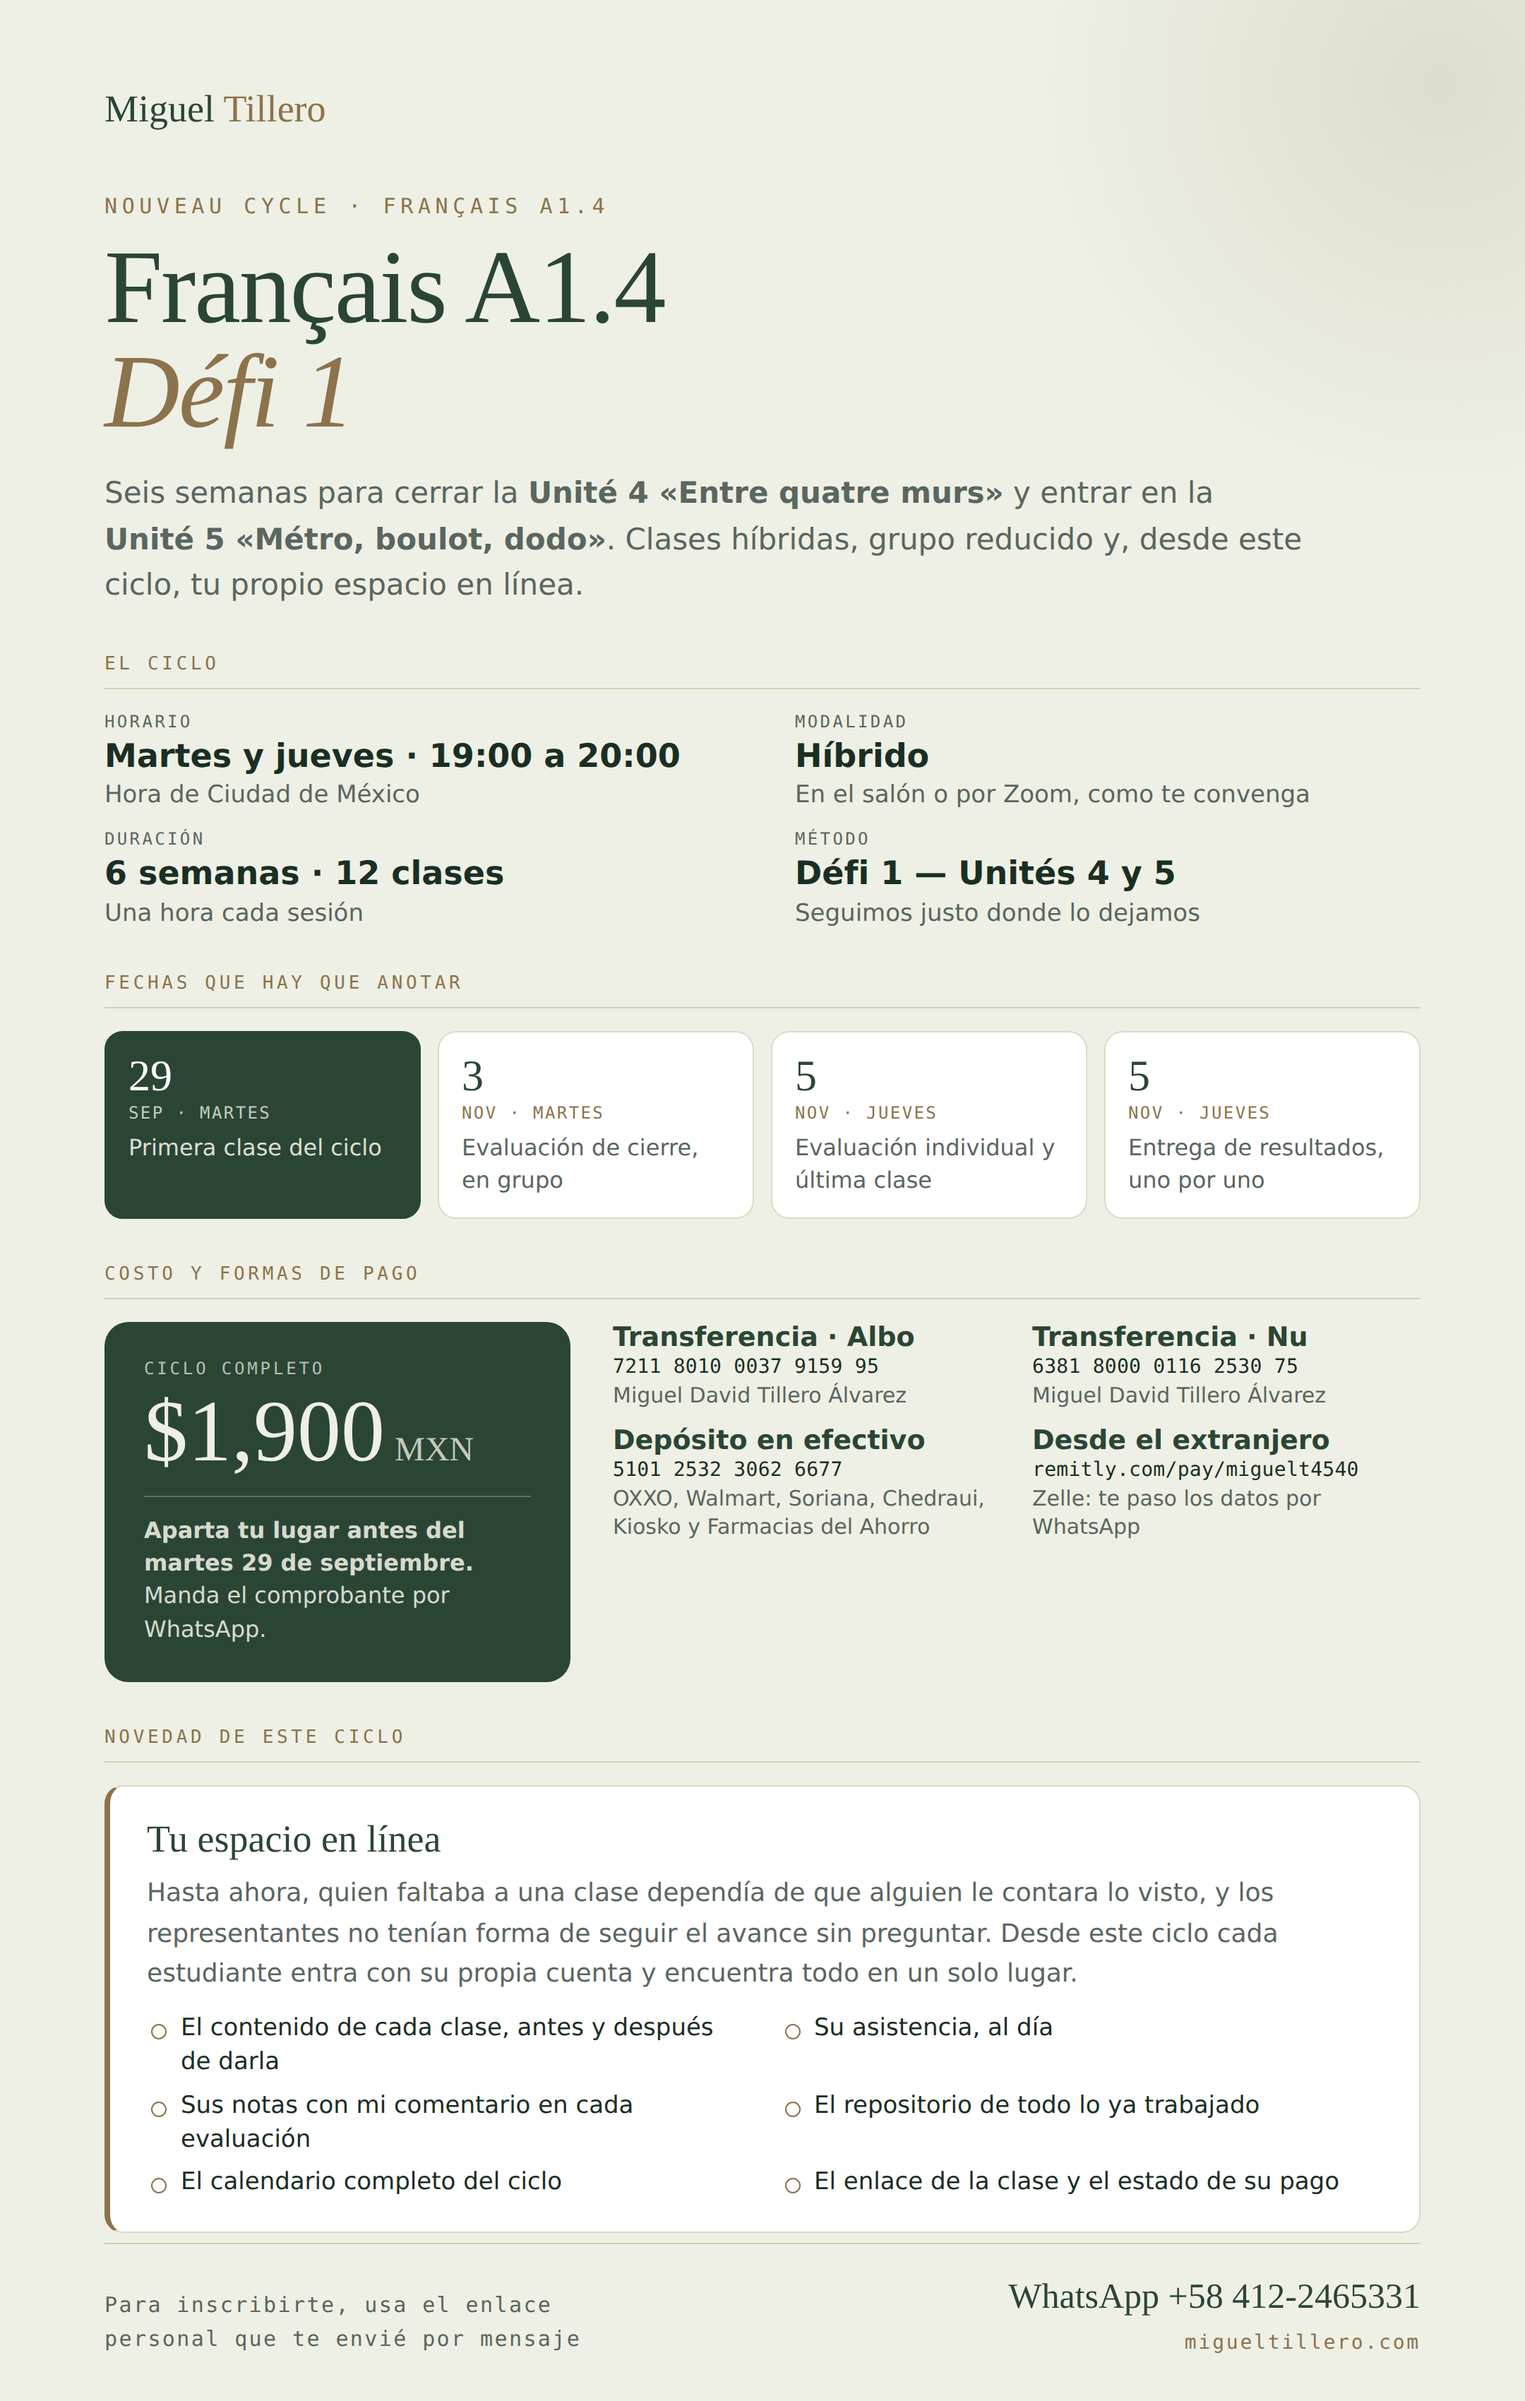
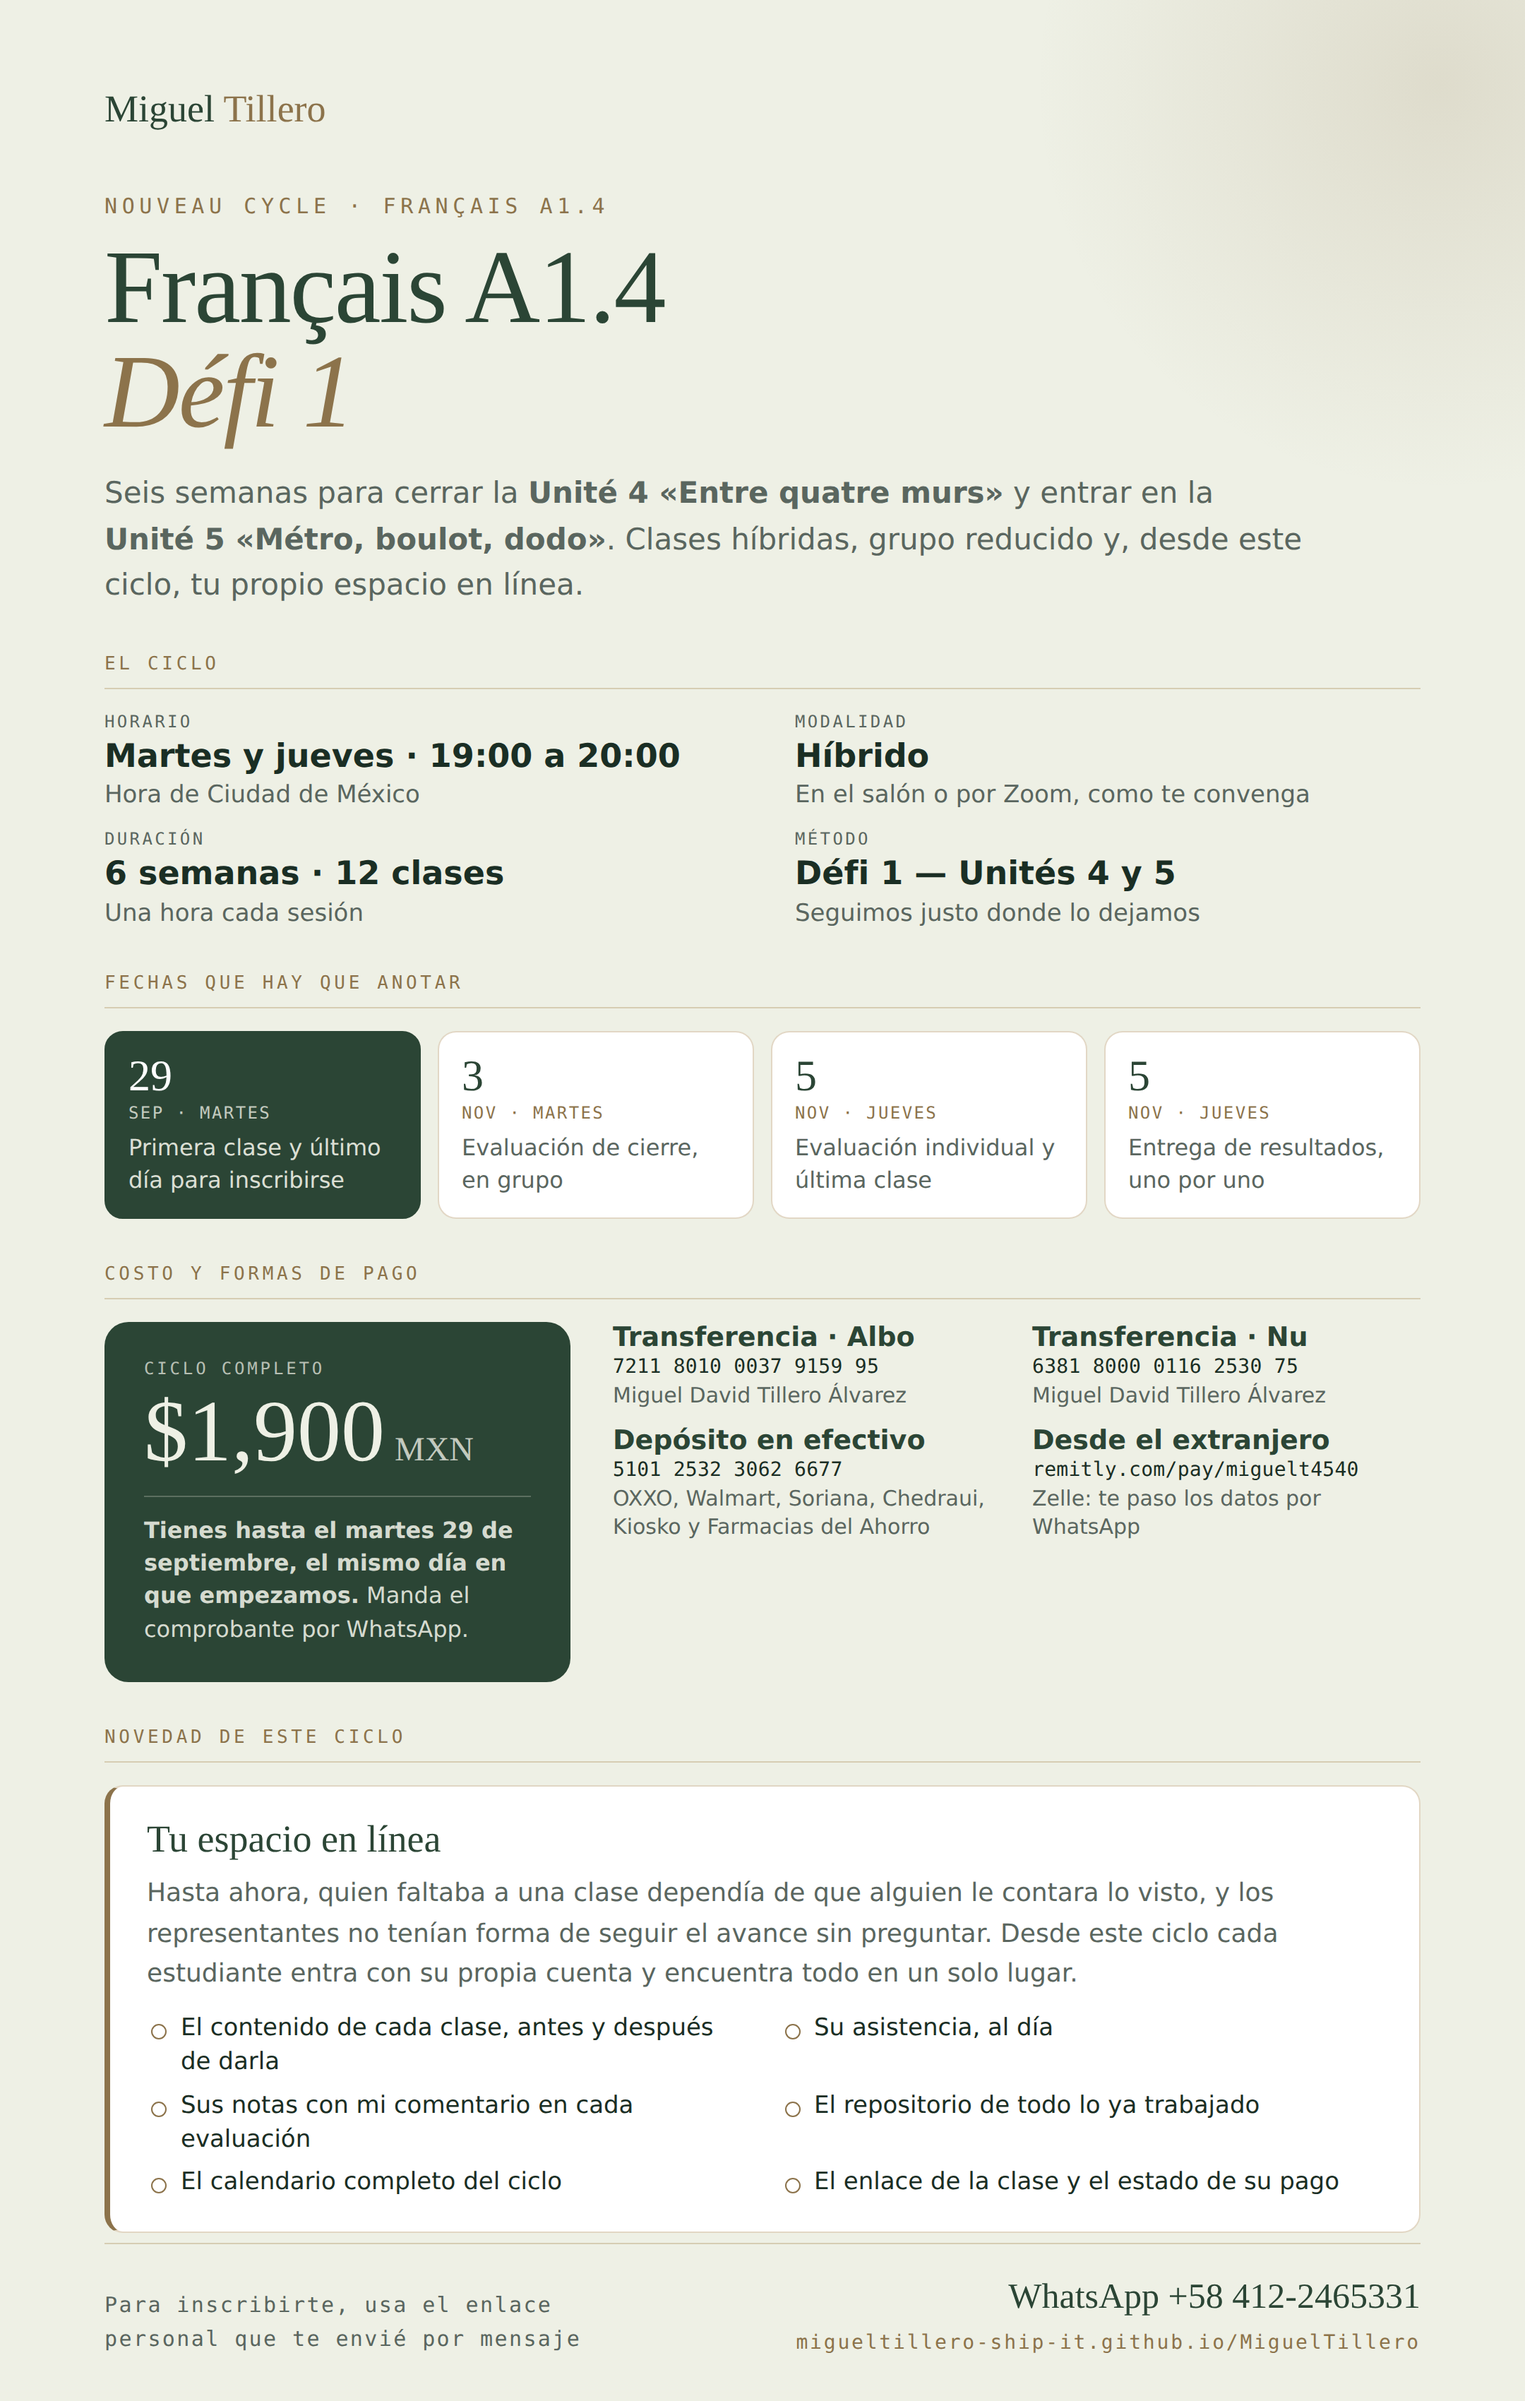
Hay plazo hasta el primer día del ciclo, inclusive
Quien llegue el mismo martes todavía entra; a partir del miércoles, no.
Antes eso dependía de acordarse de cerrar el grupo a mano.

Añade fecha_cierre_inscripcion a los grupos, con el primer día del ciclo
como valor de partida, y la hace valer sola: la vista pública marca si el
plazo sigue abierto, la página de inscripción deja de ofrecer el grupo y
explica que el plazo terminó —en vez de dejar una lista vacía sin motivo—
y el alta ya no engancha al grupo fuera de plazo. La cuenta se crea igual
y queda sin grupo, para que el docente decida.

Las fechas se comparan en hora de Ciudad de México: con la hora UTC que
trae Postgres, el martes a las 18:00 ya sería miércoles y el plazo se
habría cerrado justo antes de la clase de las 19:00.

La página aguanta que el SQL no esté corrido todavía: sin la columna en la
vista, no hay plazo que comprobar y todo sigue como antes.

Corrige de paso la infografía y los mensajes, que decían «antes del martes
29» —más estricto que la regla—, y el pie, que anunciaba un dominio que
todavía no existe.

Claude-Session: https://claude.ai/code/session_016gU5sFNPw9yp4WWQLSnViQ

Changed region(s): [[0.0931, 0.6235, 0.3412, 0.6859], [0.1861, 0.4676, 0.2481, 0.4988], [0.8065, 0.9665, 0.8375, 0.9976]]

diff --git a/registro/inscripcion.html b/registro/inscripcion.html
@@ -239,6 +239,14 @@ function fechaLarga(iso) {
         { weekday: 'long', day: 'numeric', month: 'long' });
 }
 
+/* Hay plazo hasta el último día inclusive. Quien todavía no haya corrido
+   supabase/plazo-inscripcion.sql no tiene la columna en la vista: entonces
+   no hay plazo que comprobar y el grupo sigue abierto como antes. */
+function plazoAbierto(g) {
+    if (!g || g.inscripcion_abierta === undefined || g.inscripcion_abierta === null) return true;
+    return g.inscripcion_abierta === true;
+}
+
 function pintarPago() {
     if (!grupoActual) return;
     const monto = Number(grupoActual.costo);
@@ -247,7 +255,8 @@ function pintarPago() {
     document.getElementById('pago-cifra').textContent = '$' + monto.toLocaleString('es-MX');
     document.getElementById('pago-moneda').textContent = grupoActual.moneda || 'MXN';
     document.getElementById('pago-limite').textContent =
-        'Para apartar tu lugar, paga antes del ' + fechaLarga(grupoActual.fecha_inicio) + '.';
+        'Para apartar tu lugar, paga a más tardar el ' +
+        fechaLarga(grupoActual.fecha_cierre_inscripcion || grupoActual.fecha_inicio) + '.';
 
     document.getElementById('pago-metodos').innerHTML = METODOS_PAGO.map(m => `
         <div class="pago-metodo">
@@ -320,12 +329,18 @@ if (!supabaseConfigurado) {
                 const { data } = await supabaseClient.from('v_grupos_disponibles').select('*').eq('curso_id', cursoDelEnlace).order('fecha_inicio').limit(1);
                 grupo = data && data[0];
             }
-            if (grupo && grupo.cupo_disponible > 0) {
+            if (grupo && grupo.cupo_disponible > 0 && plazoAbierto(grupo)) {
                 mostrarGrupoFijo(grupo);
                 return;
             }
+            /* Decirle por qué: «el plazo cerró el martes 29» se entiende; una
+               lista vacía, no. La cuenta se crea igual y Miguel decide. */
             mostrarMsg(document.getElementById('msg-form'),
-                'Ese grupo todavía no está abierto o ya no tiene cupo. Puedes crear tu cuenta igualmente: yo te asigno el grupo que corresponda.', 'ok');
+                grupo && !plazoAbierto(grupo)
+                    ? 'El plazo de inscripción de este grupo terminó el ' + fechaLarga(grupo.fecha_cierre_inscripcion) +
+                      '. Puedes crear tu cuenta igualmente y escribirme: te asigno al grupo que corresponda.'
+                    : 'Ese grupo todavía no está abierto o ya no tiene cupo. Puedes crear tu cuenta igualmente: yo te asigno el grupo que corresponda.',
+                'ok');
         }
 
         const { data: grupos, error } = await supabaseClient
@@ -333,7 +348,7 @@ if (!supabaseConfigurado) {
             .select('*')
             .order('curso_nombre');
 
-        const disponibles = (grupos || []).filter(g => g.cupo_disponible > 0);
+        const disponibles = (grupos || []).filter(g => g.cupo_disponible > 0 && plazoAbierto(g));
         if (error || disponibles.length === 0) {
             selectCurso.innerHTML = '<option value="">Aún no hay cursos abiertos — crea tu cuenta y te asignaré un grupo</option>';
             return;

diff --git a/materiales/infografia-ciclo-a1-oct2026.html b/materiales/infografia-ciclo-a1-oct2026.html
@@ -138,7 +138,7 @@ h1 em { font-style: italic; color: var(--oro); }
             <div class="hito fuerte">
                 <div class="d">29</div>
                 <div class="m">Sep · martes</div>
-                <div class="q">Primera clase del ciclo</div>
+                <div class="q">Primera clase y último día para inscribirse</div>
             </div>
             <div class="hito">
                 <div class="d">3</div>
@@ -164,8 +164,8 @@ h1 em { font-style: italic; color: var(--oro); }
             <div class="precio-caja">
                 <div class="et">Ciclo completo</div>
                 <div class="cifra">$1,900<small>MXN</small></div>
-                <div class="lim"><b>Aparta tu lugar antes del martes 29 de septiembre.</b>
-                    Manda el comprobante por WhatsApp.</div>
+                <div class="lim"><b>Tienes hasta el martes 29 de septiembre, el mismo día
+                    en que empezamos.</b> Manda el comprobante por WhatsApp.</div>
             </div>
             <div class="metodos">
                 <div class="metodo">
@@ -219,7 +219,10 @@ h1 em { font-style: italic; color: var(--oro); }
         </div>
         <div class="der">
             WhatsApp +58 412-2465331
-            <small>migueltillero.com</small>
+            <!-- Cuando el dominio esté comprado y apuntando, aquí vuelve
+                 «migueltillero.com». Hasta entonces, la dirección real: la
+                 otra no lleva a ninguna parte. -->
+            <small>migueltillero-ship-it.github.io/MiguelTillero</small>
         </div>
     </div>
 </div>

diff --git a/materiales/mensaje-whatsapp-ciclo-a1-oct2026.md b/materiales/mensaje-whatsapp-ciclo-a1-oct2026.md
@@ -22,7 +22,7 @@ En la imagen tienen todos los detalles. Lo esencial:
 🕖 *Martes y jueves, de 7:00 a 8:00 p.m.*
 🏫 Modalidad *híbrida*: en el salón o por Zoom, como les convenga
 💰 *$1,900 MXN* el ciclo completo
-⏳ Para apartar el lugar, el pago va *antes del martes 29*
+⏳ Hay plazo para inscribirse y pagar *hasta el mismo martes 29*, el día que empezamos. Después de esa fecha ya no se admiten inscripciones para este ciclo.
 
 Las *evaluaciones de cierre* serán el *martes 3 de noviembre* (en grupo) y el *jueves 5* (individual). Ese mismo jueves entrego los *resultados*, uno por uno.
 
@@ -87,7 +87,7 @@ algún día creas otro ciclo, ese id cambia: lo saca el panel docente en
 ## 3 · Recordatorio de pago (si hace falta, domingo 27 o lunes 28)
 
 ```
-Hola 👋 Un recordatorio corto: para apartar el lugar de *[nombre]* en el ciclo que arranca el *martes 29*, el pago va antes de esa fecha.
+Hola 👋 Un recordatorio corto: el plazo para inscribir a *[nombre]* en el ciclo termina el *martes 29*, el mismo día que empezamos. Después de ese día ya no puedo incluirlo en este ciclo.
 
 Los datos están en la imagen que mandé al grupo; si te queda más cómodo te los paso por aquí. Con que me mandes el comprobante es suficiente.
 
